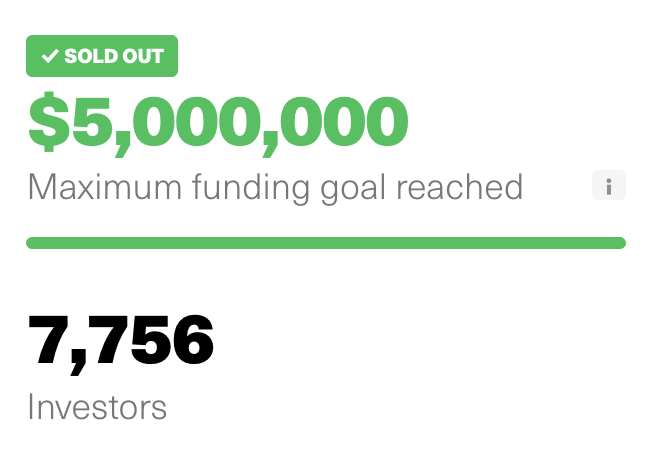
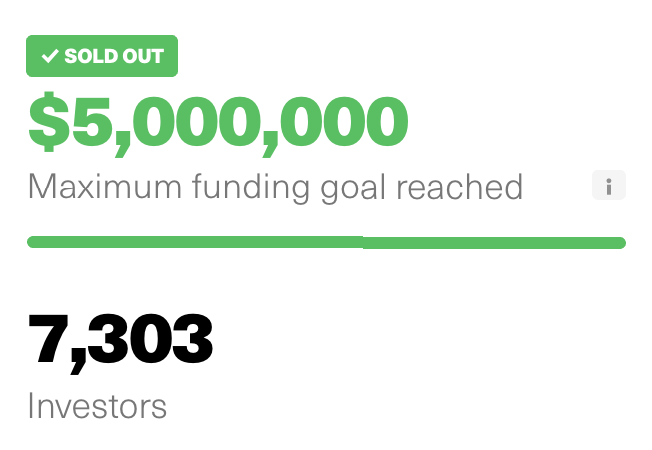
cp

diff --git a/pages/ipo.js b/pages/ipo.js
@@ -47,10 +47,10 @@ export default function Home() {
         <p><img src="/republic.png" style={{margin: "1rem 0"}} /></p>
         <p>Including $1M from Naval Ravikant, Jason Fried, and others, the total amount raised is $6M. We raised this capital at a $100M pre-money valuation.</p>
         <p>I thought about calling this our Series C–for creators, community, crowdfunding, and out of respect for our failed Series B. But it's more accurate to say this is our initial public offering.</p>
-        <p>For 79% of our investors, this was their first-ever angel investment. That is over 5,000 newly-minted angel investors, several who have wanted to do this for a while but have been traditionally excluded.</p>
-        <p>Speaking for myself, it was an important shift for me to go from thinking in terms of earning an income to thinking in terms of owning equity, and I'm excited to see what happens next.</p>
-        <p>The half that's missing: post-IPO liquidity. Good news: Reg CF allows for secondary sales after a 1-year lockup period, and we'll be one of the first to allow our new owners to sell some of their shares to others, if they wish.</p>
-        <p>And in that future, perhaps there's no reason to "go public"–we already have.</p>
+        <p>For 79% of our investors, this was their first-ever angel investment. That is over 5,000 newly-minted angel investors, including many who have wanted to do this for a while but have been traditionally excluded.</p>
+        <p>Speaking for myself: My life changed when I went from earning an income (labor) to owning equity (capital). It feels good to put my equity where my mouth is and give others a similar experience.</p>
+        <p>One more thing: post-IPO liquidity. An underreported fact of Reg CF is that it allows for secondary sales after a 1-year lockup period. Gumroad will soon allow its owners to sell some of their shares to others, if they wish.</p>
+        <p>And in that future, perhaps there's no reason to "go public"–in a limited way, we already have.</p>
         <h2>The future of fundraising</h2>
         <p>I hope to see more startups raise money from their customers and communities. And not just startups, but restaurants and coffee shops and bookstores and more mature companies, and even venture capital firms like Arlan Hamilton's Backstage.</p>
         <p>Why isn’t it more common? First off, the legislation is a day old. So it’ll take some time to get people (both founders and retail investors) educated.</p>
@@ -62,8 +62,8 @@ export default function Home() {
           <li>You need to have high confidence you can reach a large audience of retail investors–<em>With “testing the waters” now allowed, founders can gauge demand before commiting</em></li>
         </ul>
         <p>More businesses will embrace this method to fundraise, because the upside of having customers as owners is too great. Gumroad now has hundreds of customers as owners, who are doubly-incentivized to help make our product better, use the product itself more, and spread the word.</p>
-        <p>This is already the cause in the UK, where equity crowdfunding is more than <a href="https://docs.google.com/spreadsheets/d/1CZXdI0Giq1AGsPEG2HTg2t6zU5MrSazEvrpSQ0kcib0/edit#gid=0">60x the US crowdfunding market</a> (compared to their respective GDPs).</p>
-        <p>To be clear: quintupling the crowdfunding cap is not going to 5x crowdfunding, it is going to 50x crowdfunding. Gumroad did not go from raising $1M to raising $5M, but from not raising this way to raising raising in this way. At least for Gumroad, equity crowdfunding now has product-market fit.</p>
+        <p>This is already the case in the UK, where equity crowdfunding is more than <a href="https://docs.google.com/spreadsheets/d/1CZXdI0Giq1AGsPEG2HTg2t6zU5MrSazEvrpSQ0kcib0/edit#gid=0">60x the US crowdfunding market</a> (compared to their respective GDPs).</p>
+        <p>To be clear: quintupling the crowdfunding cap is not going to 5x crowdfunding, it is going to 50x crowdfunding. Gumroad did not go from raising $1M to raising $5M, but from not raising this way to raising this way. At least for Gumroad, equity crowdfunding now has product-market fit.</p>
         <h2>How can I help?</h2>
         <p>There is one way to make this happen sooner: show founders that taking this approach will make their companies more valuable.</p>
         <p>So, to Gumroad's 7,303 or so new investors asking "How can I help?" for the very first time:</p>
